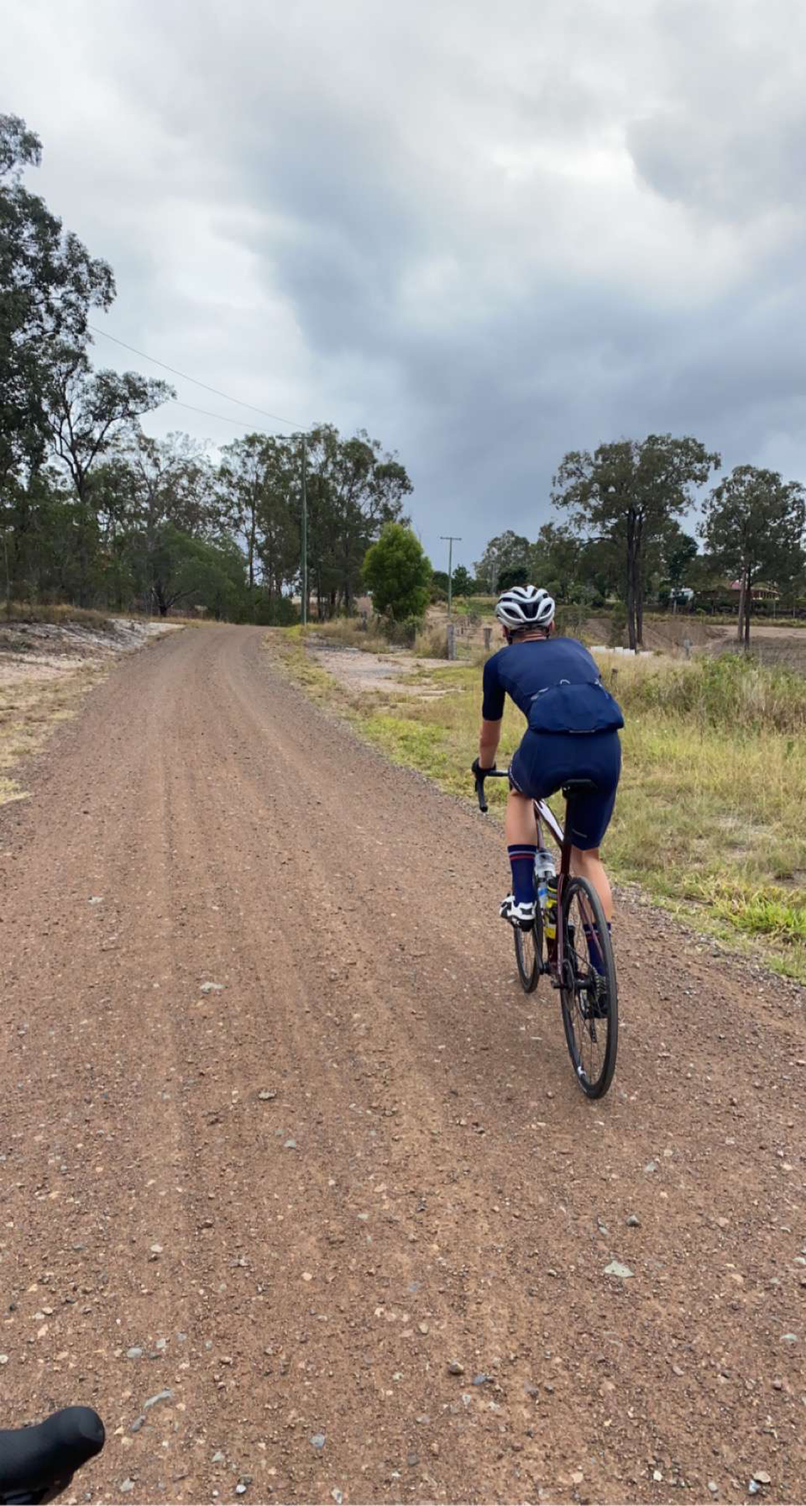
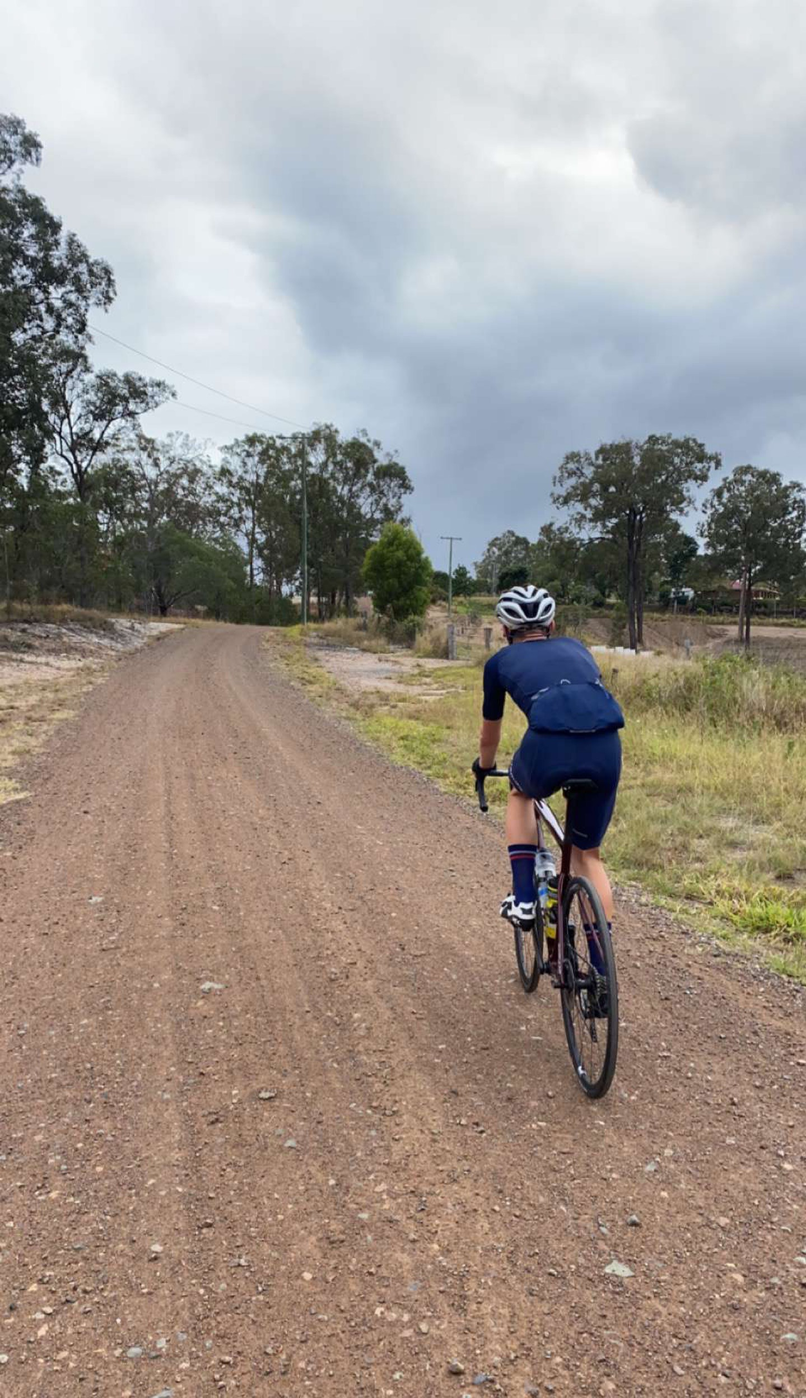
typos

diff --git a/content/featured/Barista/index.md b/content/featured/Barista/index.md
@@ -9,4 +9,4 @@ tech:
   - Responsible Service of Alcohol
 ---
 
-Junior barista with experience both in shops and at home. Accreditied with the [Australian Barista School](https://www.australianbaristaschool.com.au/?Accredited-Barista-5-Hours-Training---Brisbane;Info;1653).
+Junior barista with experience both in shops and at home. Accredited with the [Australian Barista School](https://www.australianbaristaschool.com.au/?Accredited-Barista-5-Hours-Training---Brisbane;Info;1653).

diff --git a/content/featured/School Leadership/index.md b/content/featured/School Leadership/index.md
@@ -10,4 +10,4 @@ tech:
   - (2019) Model UN President, Interact Club VP
 ---
 
-Executive Captain for both Year 11 and 12. Managed portfolio with committee of dozens of studnets. Coorinated with student leadership team and staff members.
+Executive Captain for both Year 11 and 12. Managed portfolio with committee of dozens of students. Coorinated with student leadership team and staff members.

diff --git a/content/featured/Cycling/index.md b/content/featured/Cycling/index.md
@@ -1,7 +1,7 @@
 ---
 date: '2'
 title: 'Cycling'
-cover: './cycling.JPG'
+cover: './cycling.jpg'
 cta: 'https://www.strava.com/athletes/34406899'
 external: 'https://www.strava.com/athletes/34406899'
 tech:
